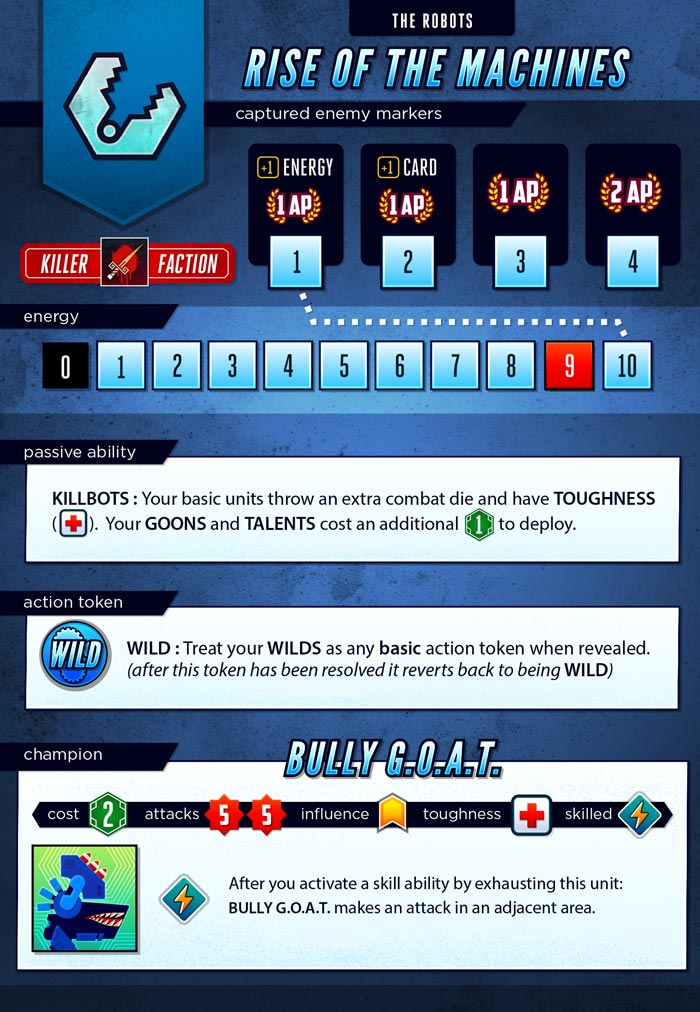
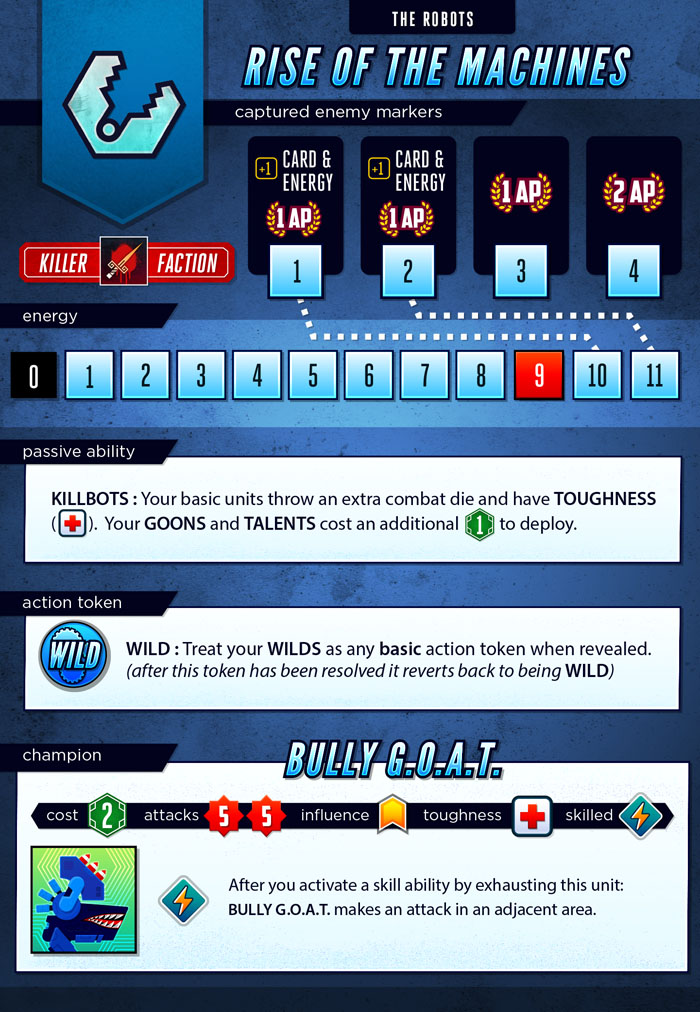
Improve robots capture rewards

diff --git a/server/classes/factions/Robots.js b/server/classes/factions/Robots.js
@@ -15,6 +15,13 @@ class Robots extends Faction {
         this.data.focusDescription = "Exterminate areas";
         this.data.flipableUnits = ['patsy', 'goon', 'mole', 'talent', 'champion'];
 
+        this.capturedRewards = [
+            { ap : 1, maxEnergy : 1, cardDraw : 1 },
+            { ap : 1, cardDraw : 1, maxEnergy : 1 },
+            { ap : 1 },
+            { ap : 2 },
+        ];
+
         // tokens
         this.tokens['wild'] = {
             count: 4,
